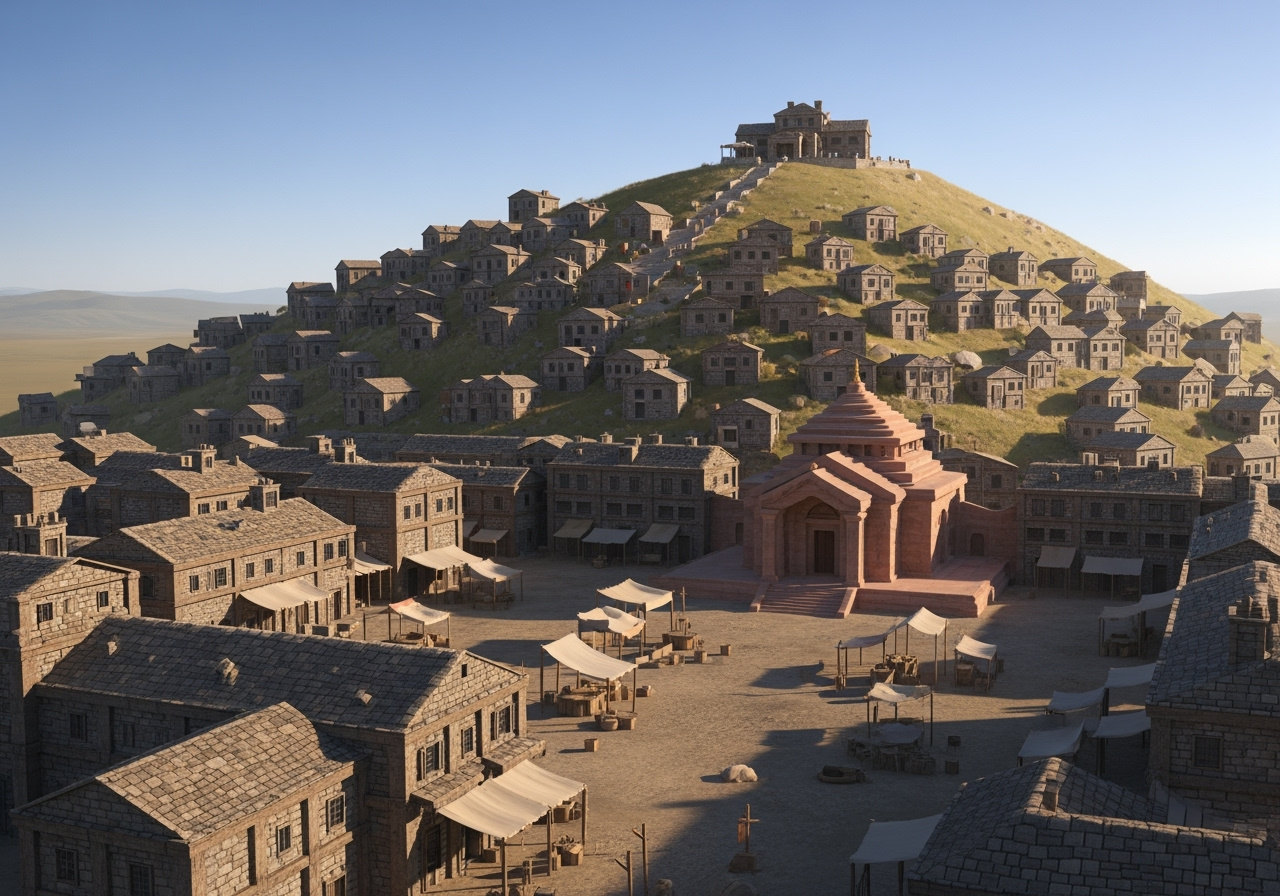
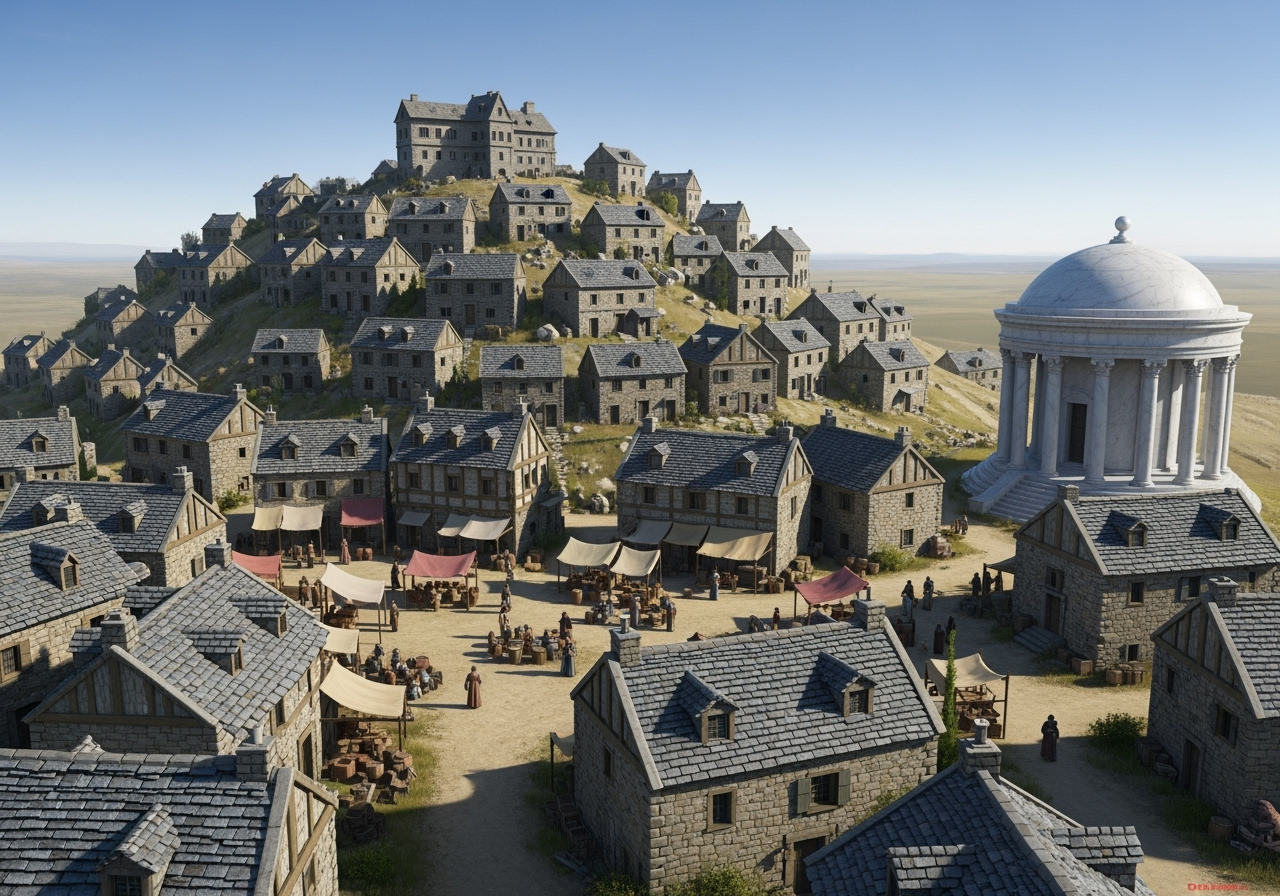
add gemini picture of rochevent

diff --git a/docs/villes/rochevent.md b/docs/villes/rochevent.md
@@ -40,3 +40,24 @@ Les Rocheventaux sont principalement des contremaîtres et des gardes. Quelques 
 ## Ambiance
 Rochevent est un village austère et venteux, mais fier de son marbre — « la pierre de Rochevent » est recherchée dans toutes les grandes cités de Ziven.  
 Bien que Lord Edgar y soit considéré comme un personnage influent, son prestige ne dépasse guère les frontières du royaume, ce qui reste pour lui un sujet d’amertume.  
+
+<div class="gallery">
+  <a href="../../images/rochevent-1.png" class="glightbox" data-gallery="Rochevent" 
+     data-title="Rochevent">
+    <img src="../../images/rochevent-1.png" alt="Rochevent"/>
+  </a>
+  <a href="../../images/rochevent-2.png" class="glightbox" data-gallery="Rochevent" 
+     data-title="Rochevent">
+    <img src="../../images/rochevent-2.png" alt="Rochevent"/>
+  </a>
+  <a href="../../images/rochevent-3.png" class="glightbox" data-gallery="Rochevent" 
+     data-title="Rochevent">
+    <img src="../../images/rochevent-3.png" alt="Rochevent vue de loin"/>
+  </a>
+</div>
+
+<script>
+document.addEventListener("DOMContentLoaded", () => {
+  const lightbox = GLightbox({ selector: '.glightbox' });
+});
+</script>
